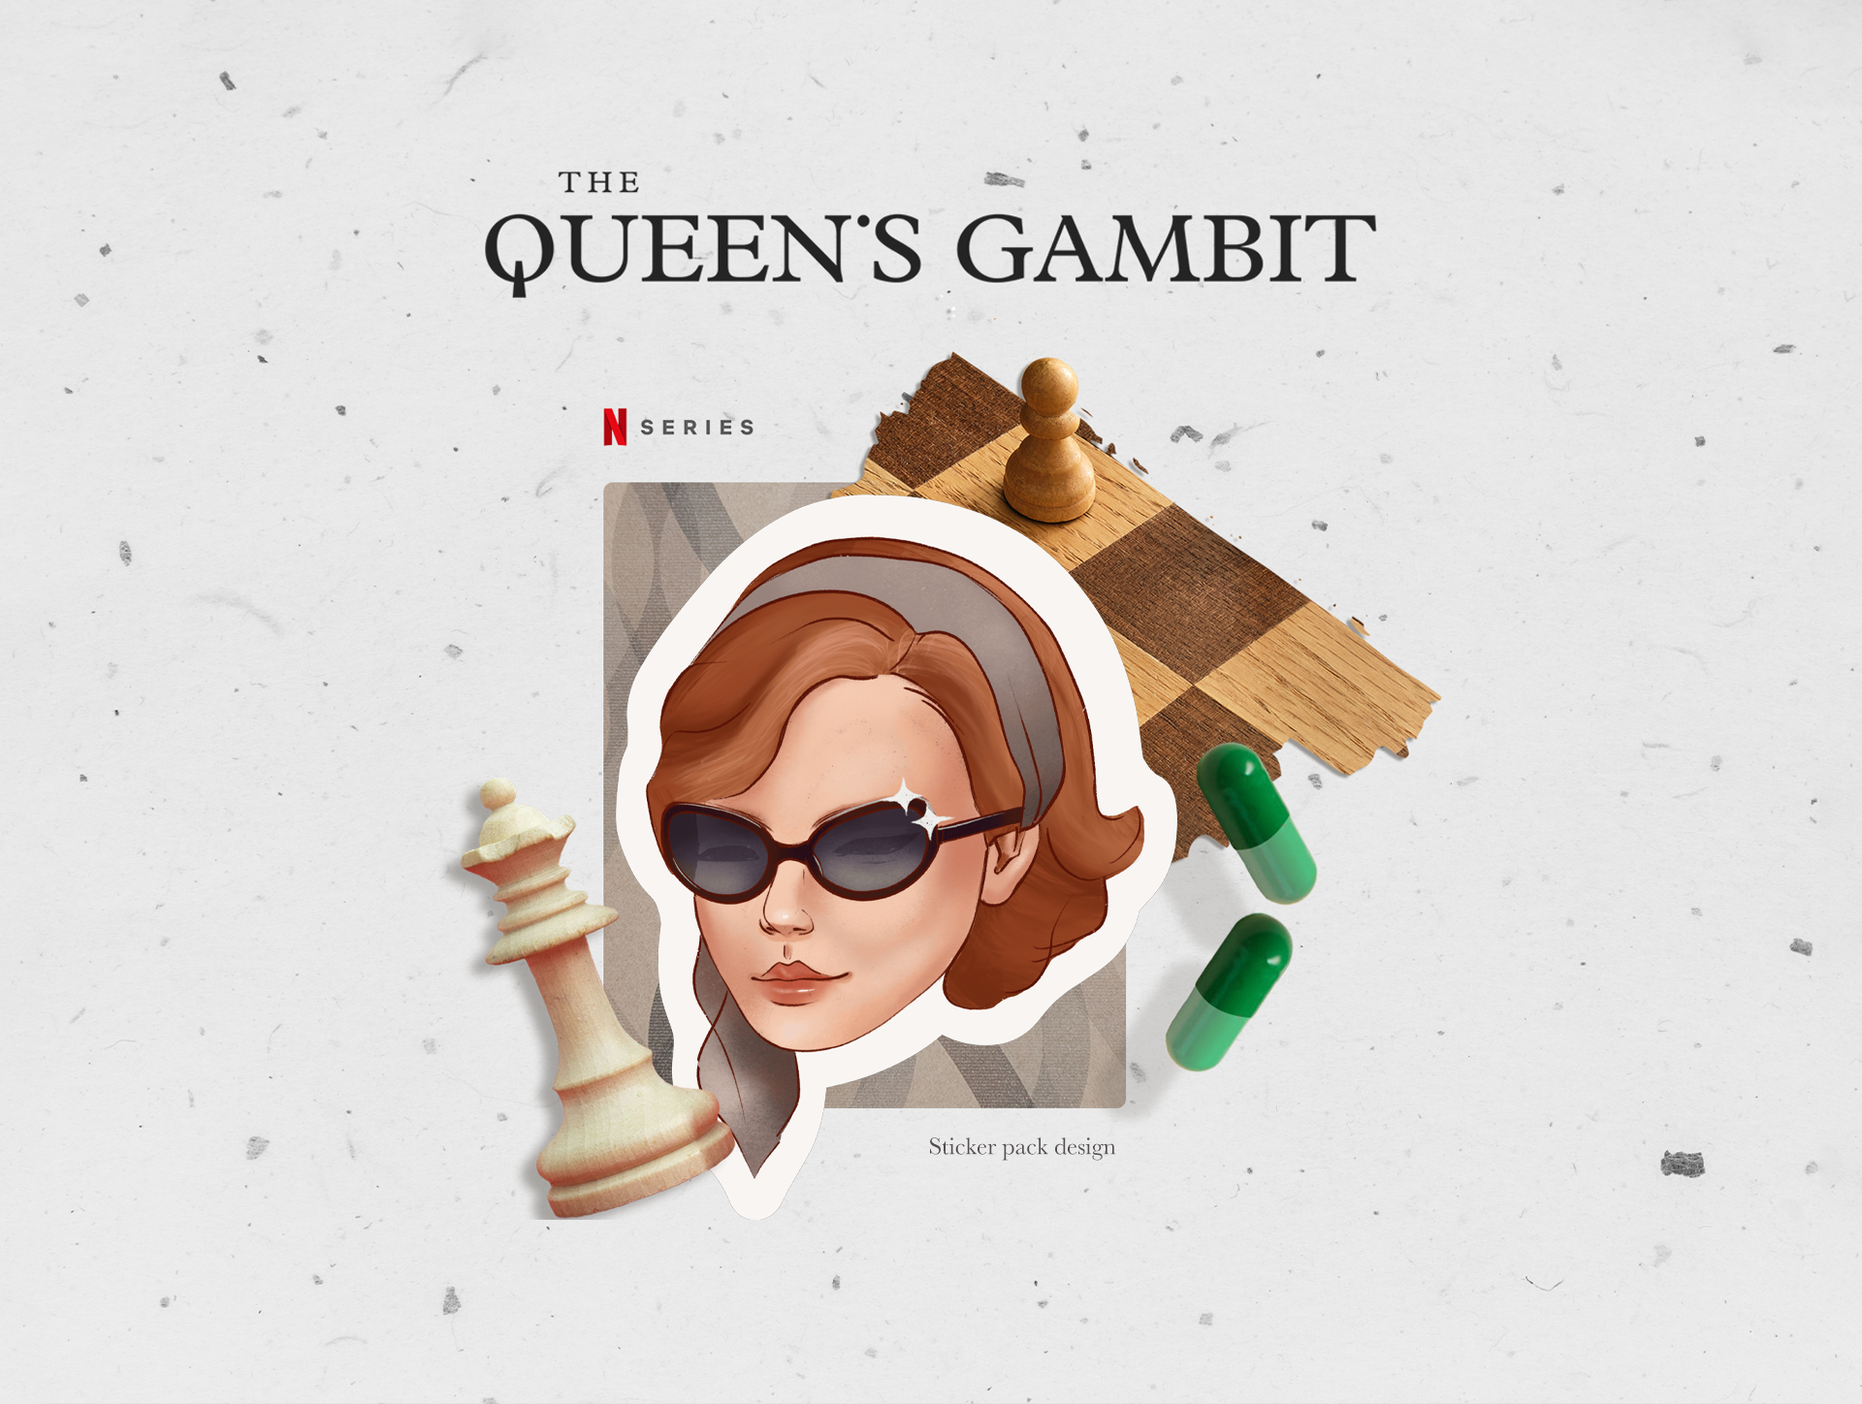
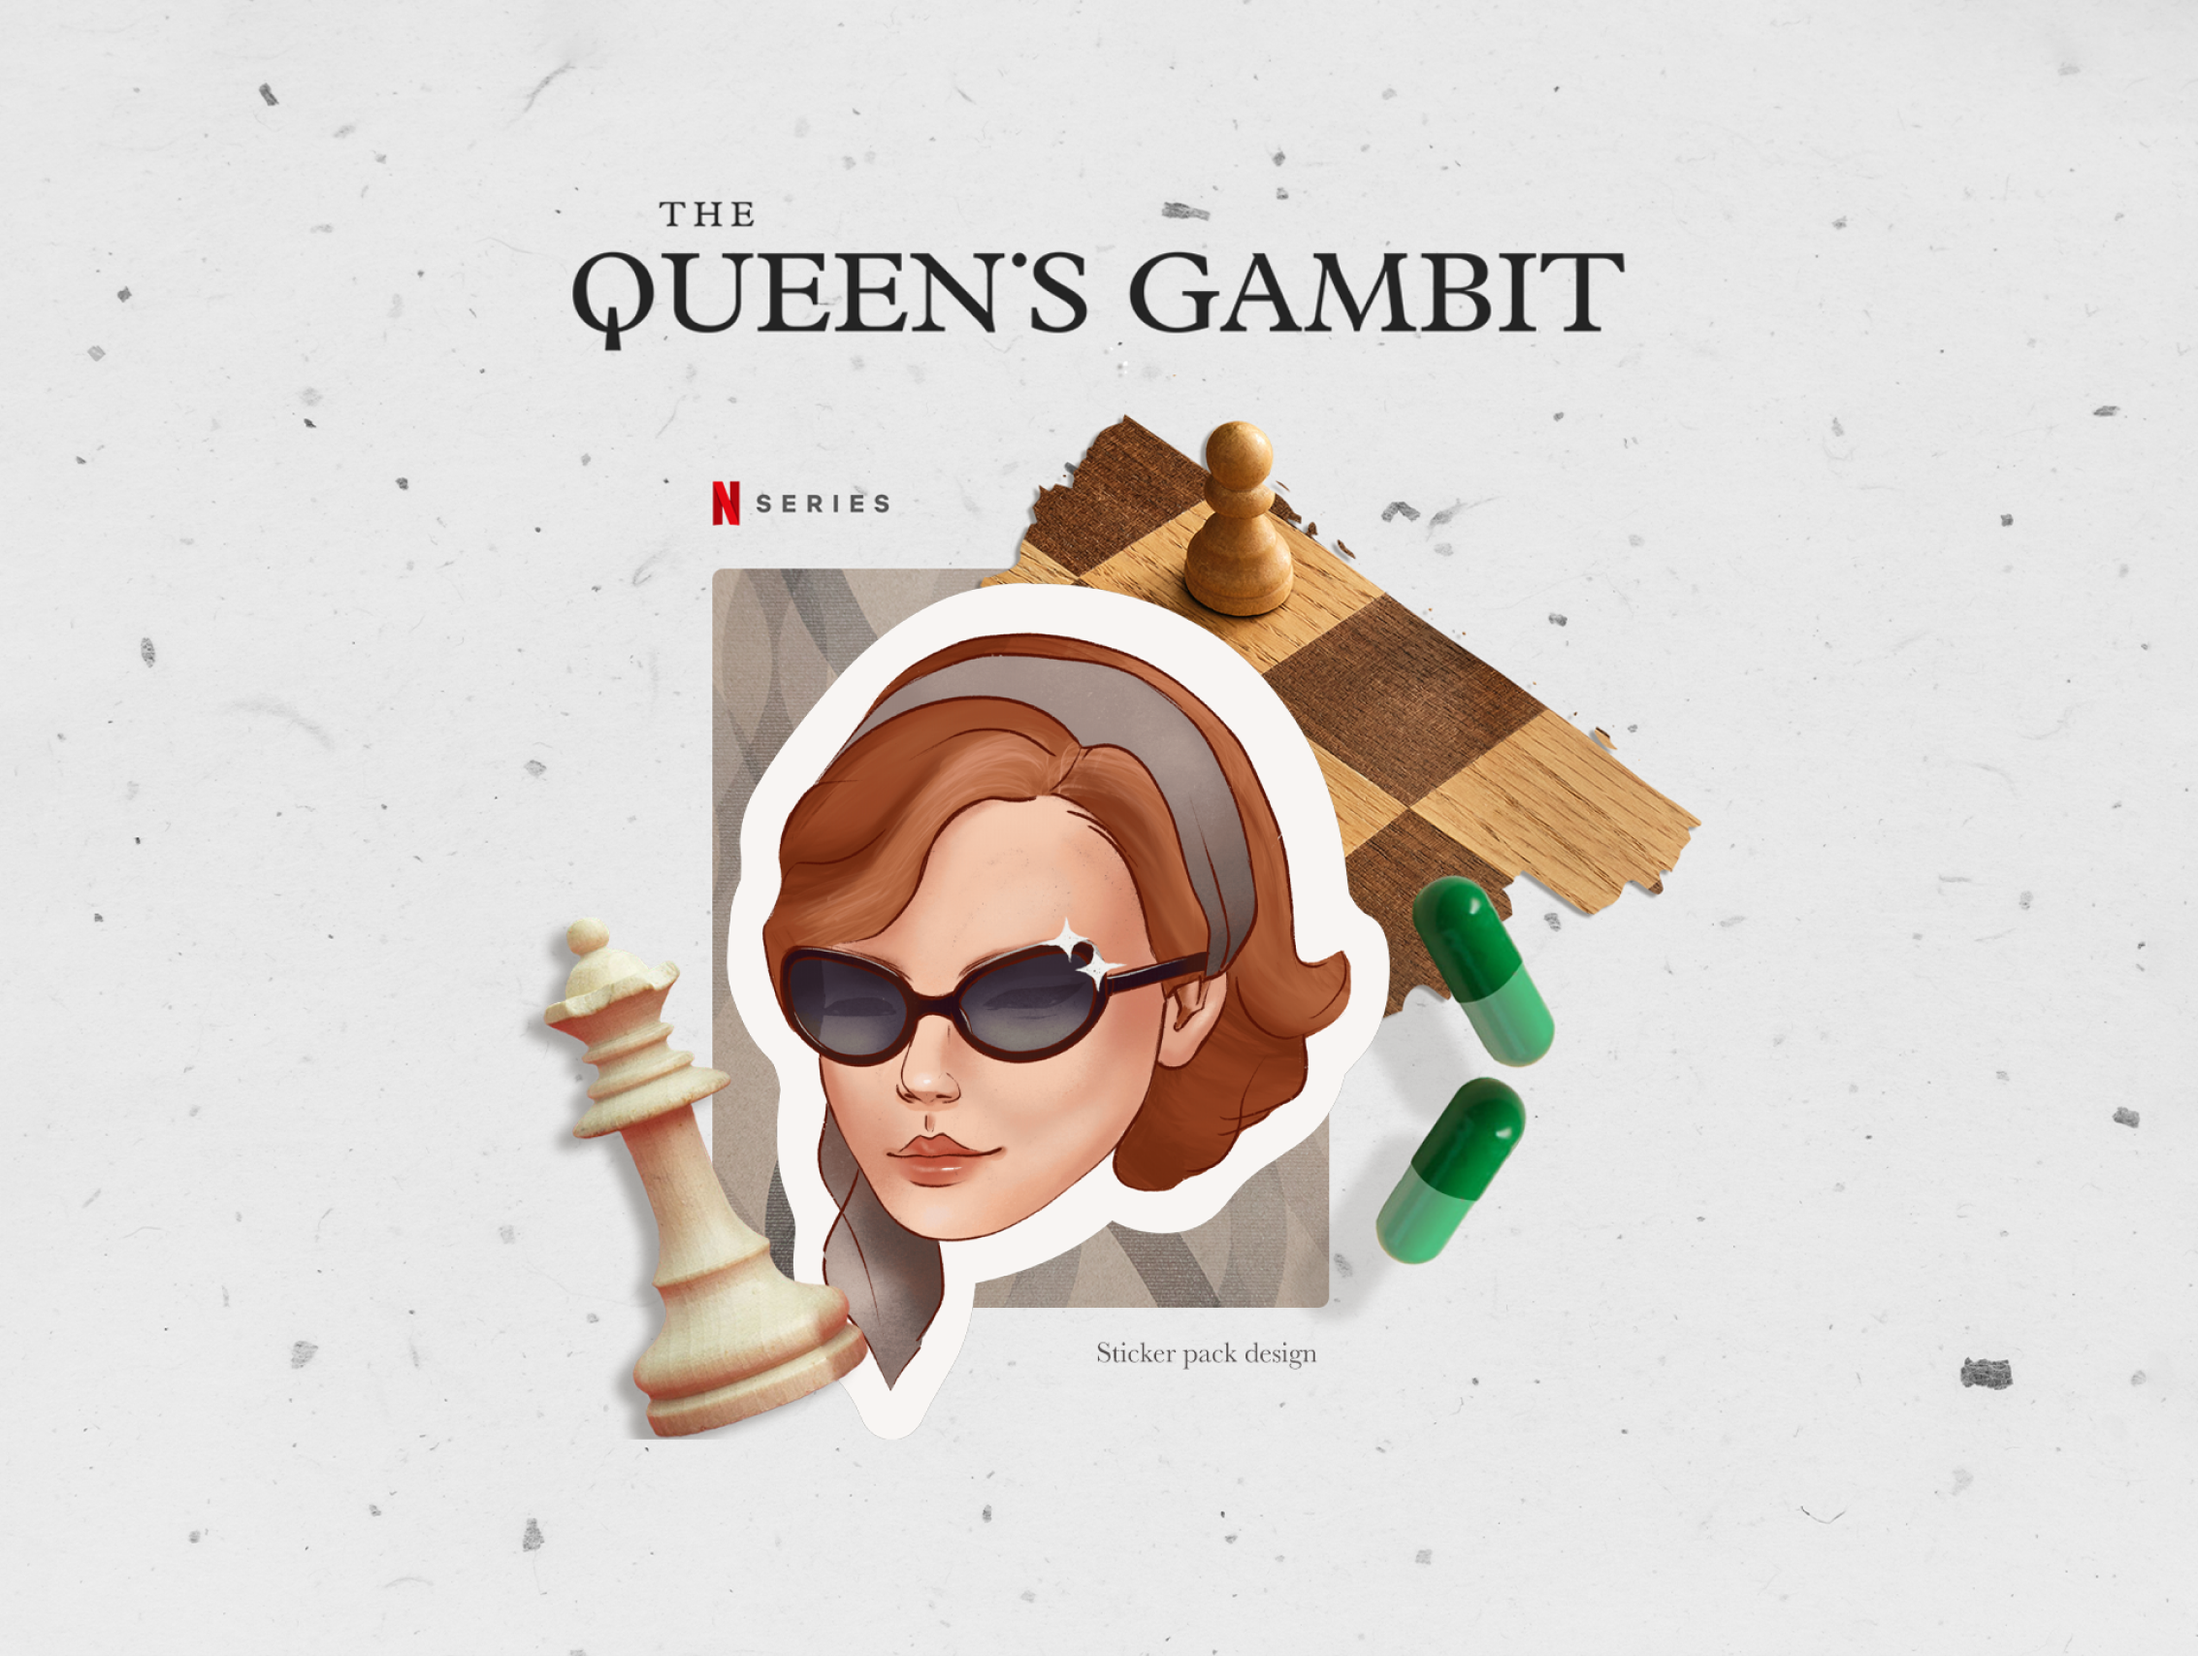
photos size reduced and adding aditional product img

Changed region(s): [[0.5625, 0.808, 0.5938, 0.8391], [0.3125, 0.1243, 0.3438, 0.1554]]

diff --git a/gallery/javaScript/products.js b/gallery/javaScript/products.js
@@ -35,7 +35,11 @@ const products = [
     collectionName: "",
     inStock: true,
     isAdded: false,
-    size: "11x11",
+    size: [
+      "5x5",
+      "7x5",
+      "15x7"
+  ],
     quantity: "1",
     description: "Lorem ipsum dolor sit amet consectetur adipiscing elit egestas, mattis vel a dictum elementum risus nisi sem dictumst,"
 },
@@ -50,7 +54,11 @@ const products = [
     collectionName: "Classic",
     inStock: true,
     isAdded: false,
-    size: "14x50",
+    size: [
+      "13x16",
+      "15x15",
+      "25x13"
+  ],
     quantity: "1",
     description: "Lorem ipsum dolor sit amet consectetur adipiscing elit egestas, mattis vel a dictum elementum risus nisi sem dictumst,"
 },
@@ -65,7 +73,11 @@ const products = [
   collectionName: "",
   inStock: false,
   isAdded: false,
-  size: "14x50",
+  size: [
+    "13x16",
+    "15x15",
+    "25x13"
+],
   quantity: "1",
   description: "Lorem ipsum dolor sit amet consectetur adipiscing elit egestas, mattis vel a dictum elementum risus nisi sem dictumst,"
 },
@@ -80,7 +92,11 @@ const products = [
   collectionName: "Alice",
   inStock: false,
   isAdded: false,
-  size: "14x50",
+  size: [
+    "13x16",
+    "15x15",
+    "25x13"
+],
   quantity: "1",
   description: "Lorem ipsum dolor sit amet consectetur adipiscing elit egestas, mattis vel a dictum elementum risus nisi sem dictumst,"
 },
@@ -95,8 +111,11 @@ const products = [
   collectionName: "Alice",
   inStock: true,
   isAdded: false,
-  size: "14x50",
-  quantity: "1",
+  size: [
+    "13x16",
+    "15x15",
+    "25x13"
+],  quantity: "1",
   description: "Lorem ipsum dolor sit amet consectetur adipiscing elit egestas, mattis vel a dictum elementum risus nisi sem dictumst,"
 },
 {
@@ -110,8 +129,11 @@ const products = [
   collectionName: "",
   inStock: true,
   isAdded: false,
-  size: "large",
-  quantity: "1",
+  size: [
+    "small",
+    "medium",
+    "large"
+],  quantity: "1",
   description: "Lorem ipsum dolor sit amet consectetur adipiscing elit egestas, mattis vel a dictum elementum risus nisi sem dictumst,"
 },
 {
@@ -125,7 +147,11 @@ const products = [
   collectionName: "Classic",
   inStock: true,
   isAdded: false,
-  size: "14x50",
+  size: [
+    "13x16",
+    "15x15",
+    "25x13"
+],
   quantity: "1",
   description: "Lorem ipsum dolor sit amet consectetur adipiscing elit egestas, mattis vel a dictum elementum risus nisi sem dictumst,"
 },
@@ -140,7 +166,11 @@ const products = [
   collectionName: "Beauty",
   inStock: true,
   isAdded: false,
-  size: "14x50",
+  size: [
+    "13x16",
+    "15x15",
+    "25x13"
+],
   quantity: "1",
   description: "Lorem ipsum dolor sit amet consectetur adipiscing elit egestas, mattis vel a dictum elementum risus nisi sem dictumst,"
 },
@@ -155,7 +185,11 @@ const products = [
   collectionName: "Beauty",
   inStock: true,
   isAdded: false,
-  size: "14x50",
+  size: [
+    "13x16",
+    "15x15",
+    "25x13"
+],
   quantity: "1",
   description: "Lorem ipsum dolor sit amet consectetur adipiscing elit egestas, mattis vel a dictum elementum risus nisi sem dictumst,"
 },
@@ -170,7 +204,11 @@ collection: true,
 collectionName: "Beauty",
 inStock: true,
 isAdded: false,
-size: "14x50",
+size: [
+  "13x16",
+  "15x15",
+  "25x13"
+],
 quantity: "1",
 description: "Lorem ipsum dolor sit amet consectetur adipiscing elit egestas, mattis vel a dictum elementum risus nisi sem dictumst,"
 },
@@ -185,7 +223,11 @@ description: "Lorem ipsum dolor sit amet consectetur adipiscing elit egestas, ma
   collectionName: "Beauty",
   inStock: true,
   isAdded: false,
-  size: "14x50",
+  size: [
+    "13x16",
+    "15x15",
+    "25x13"
+],
   quantity: "1",
   description: "Lorem ipsum dolor sit amet consectetur adipiscing elit egestas, mattis vel a dictum elementum risus nisi sem dictumst,"
   },
@@ -200,7 +242,11 @@ description: "Lorem ipsum dolor sit amet consectetur adipiscing elit egestas, ma
     collectionName: "",
     inStock: true,
     isAdded: false,
-    size: "14x50",
+    size: [
+      "5x5",
+      "7x5",
+      "15x7"
+  ],
     quantity: "1",
     description: "Lorem ipsum dolor sit amet consectetur adipiscing elit egestas, mattis vel a dictum elementum risus nisi sem dictumst,"
     },
@@ -215,7 +261,11 @@ description: "Lorem ipsum dolor sit amet consectetur adipiscing elit egestas, ma
       collectionName: "Rhino",
       inStock: true,
       isAdded: false,
-      size: "14x50",
+      size: [
+        "5x5",
+        "7x5",
+        "15x7"
+    ],
       quantity: "1",
       description: "Lorem ipsum dolor sit amet consectetur adipiscing elit egestas, mattis vel a dictum elementum risus nisi sem dictumst,"
       },
@@ -230,7 +280,11 @@ description: "Lorem ipsum dolor sit amet consectetur adipiscing elit egestas, ma
         collectionName: "Rhino",
         inStock: true,
         isAdded: false,
-        size: "14x50",
+        size: [
+          "5x5",
+          "7x5",
+          "15x7"
+      ],
         quantity: "1",
         description: "Lorem ipsum dolor sit amet consectetur adipiscing elit egestas, mattis vel a dictum elementum risus nisi sem dictumst,"
         },
@@ -245,7 +299,11 @@ description: "Lorem ipsum dolor sit amet consectetur adipiscing elit egestas, ma
           collectionName: "",
           inStock: false,
           isAdded: false,
-          size: "14x50",
+          size: [
+            "13x16",
+            "15x15",
+            "25x13"
+        ], 
           quantity: "1",
           description: "Lorem ipsum dolor sit amet consectetur adipiscing elit egestas, mattis vel a dictum elementum risus nisi sem dictumst,"
           },
@@ -260,7 +318,11 @@ description: "Lorem ipsum dolor sit amet consectetur adipiscing elit egestas, ma
             collectionName: "",
             inStock: true,
             isAdded: false,
-            size: "14x50",
+            size: [
+              "13x16",
+              "15x15",
+              "25x13"
+          ],    
             quantity: "1",
             description: "Lorem ipsum dolor sit amet consectetur adipiscing elit egestas, mattis vel a dictum elementum risus nisi sem dictumst,"
             },
@@ -275,7 +337,11 @@ description: "Lorem ipsum dolor sit amet consectetur adipiscing elit egestas, ma
               collectionName: "",
               inStock: false,
               isAdded: false,
-              size: "14x50",
+              size: [
+                "13x16",
+                "15x15",
+                "25x13"
+            ],    
               quantity: "1",
               description: "Lorem ipsum dolor sit amet consectetur adipiscing elit egestas, mattis vel a dictum elementum risus nisi sem dictumst,"
               },
@@ -290,7 +356,11 @@ description: "Lorem ipsum dolor sit amet consectetur adipiscing elit egestas, ma
                 collectionName: "",
                 inStock: true,
                 isAdded: false,
-                size: "14x50",
+                size: [
+                  "13x16",
+                  "15x15",
+                  "25x13"
+              ],    
                 quantity: "1",
                 description: "Lorem ipsum dolor sit amet consectetur adipiscing elit egestas, mattis vel a dictum elementum risus nisi sem dictumst,"
                 },
@@ -305,7 +375,11 @@ description: "Lorem ipsum dolor sit amet consectetur adipiscing elit egestas, ma
                   collectionName: "",
                   inStock: true,
                   isAdded: false,
-                  size: "14x50",
+                  size: [
+                    "13x16",
+                    "15x15",
+                    "25x13"
+                ],    
                   quantity: "1",
                   description: "Lorem ipsum dolor sit amet consectetur adipiscing elit egestas, mattis vel a dictum elementum risus nisi sem dictumst,"
                   },
@@ -320,7 +394,11 @@ description: "Lorem ipsum dolor sit amet consectetur adipiscing elit egestas, ma
                     collectionName: "",
                     inStock: false,
                     isAdded: false,
-                    size: "14x50",
+                    size: [
+                      "13x16",
+                      "15x15",
+                      "25x13"
+                  ],    
                     quantity: "1",
                     description: "Lorem ipsum dolor sit amet consectetur adipiscing elit egestas, mattis vel a dictum elementum risus nisi sem dictumst,"
                     },
@@ -335,7 +413,11 @@ description: "Lorem ipsum dolor sit amet consectetur adipiscing elit egestas, ma
                       collectionName: "",
                       inStock: true,
                       isAdded: false,
-                      size: "14x50",
+                      size: [
+                        "13x16",
+                        "15x15",
+                        "25x13"
+                    ],    
                       quantity: "1",
                       description: "Lorem ipsum dolor sit amet consectetur adipiscing elit egestas, mattis vel a dictum elementum risus nisi sem dictumst,"
                       },
@@ -350,7 +432,11 @@ description: "Lorem ipsum dolor sit amet consectetur adipiscing elit egestas, ma
                         collectionName: "",
                         inStock: true,
                         isAdded: false,
-                        size: "14x50",
+                        size: [
+                          "13x16",
+                          "15x15",
+                          "25x13"
+                      ],    
                         quantity: "1",
                         description: "Lorem ipsum dolor sit amet consectetur adipiscing elit egestas, mattis vel a dictum elementum risus nisi sem dictumst,"
                         },
@@ -365,7 +451,11 @@ description: "Lorem ipsum dolor sit amet consectetur adipiscing elit egestas, ma
                           collectionName: "",
                           inStock: true,
                           isAdded: false,
-                          size: "14x50",
+                          size: [
+                            "13x16",
+                            "15x15",
+                            "25x13"
+                        ],    
                           quantity: "1",
                           description: "Lorem ipsum dolor sit amet consectetur adipiscing elit egestas, mattis vel a dictum elementum risus nisi sem dictumst,"
                           },
@@ -380,8 +470,13 @@ description: "Lorem ipsum dolor sit amet consectetur adipiscing elit egestas, ma
                             collectionName: "",
                             inStock: true,
                             isAdded: false,
-                            size: "14x50",
+                            size: [
+                              "13x16",
+                              "15x15",
+                              "25x13"
+                          ],    
                             quantity: "1",
                             description: "Lorem ipsum dolor sit amet consectetur adipiscing elit egestas, mattis vel a dictum elementum risus nisi sem dictumst,"
                             },
+                            
 ];
